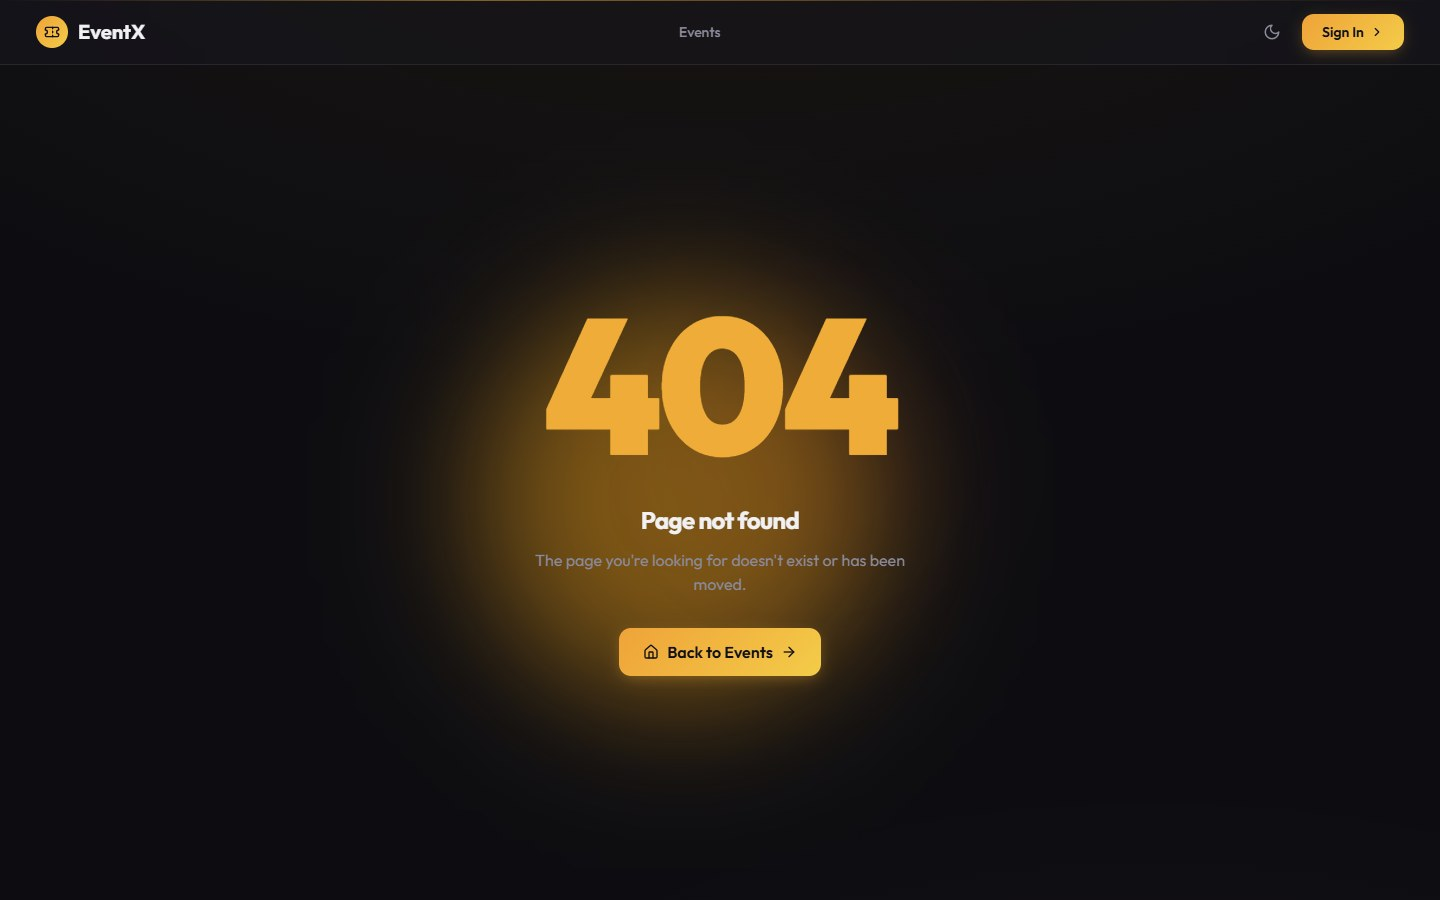
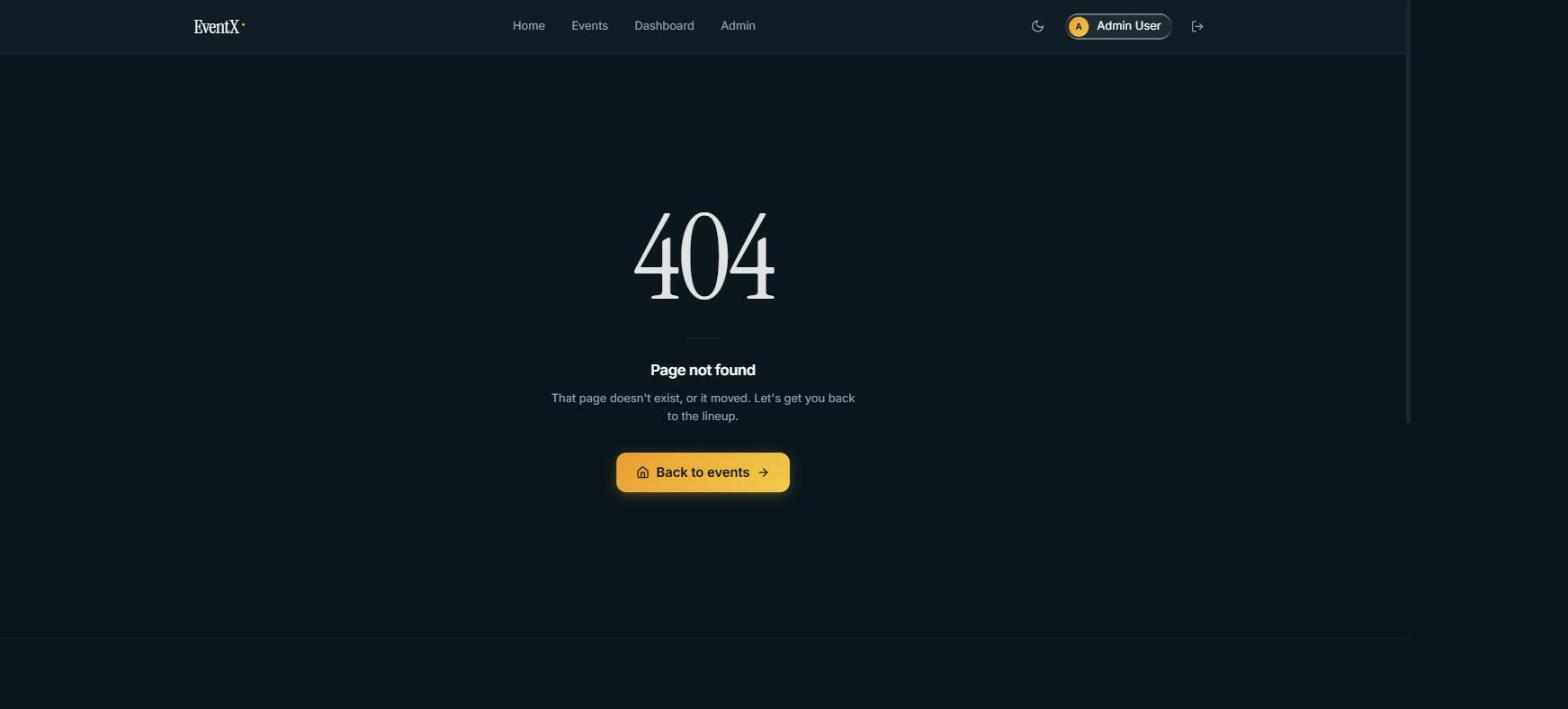
Update README: redesign screenshots, DB schema, API endpoints

diff --git a/README.md b/README.md
@@ -21,7 +21,7 @@ EventX is an event ticket booking platform built around one guarantee: a seat ca
 
 | | |
 |---|---|
-| **Browse events** ![Homepage](docs/screenshots/01-homepage.jpg) | **Event detail** ![Event detail](docs/screenshots/02-event-detail.jpg) |
+| **Browse events** ![Events](docs/screenshots/01-events.jpg) | **Event detail** ![Event detail](docs/screenshots/02-event-detail.jpg) |
 | **Sign in** ![Login](docs/screenshots/03-login.jpg) | **Create account** ![Signup](docs/screenshots/04-signup.jpg) |
 | **Seat picker** ![Seat picker](docs/screenshots/05-booking-seat-picker.jpg) | **Booking confirmed** ![Booking confirmed](docs/screenshots/06-booking-confirmed.jpg) |
 | **User dashboard** ![User dashboard](docs/screenshots/07-user-dashboard.jpg) | **Admin — events** ![Admin dashboard](docs/screenshots/08-admin-dashboard.jpg) |
@@ -33,6 +33,7 @@ EventX is an event ticket booking platform built around one guarantee: a seat ca
 |---|---|
 | Concurrency-safe booking | A Postgres unique constraint rejects an already-taken seat instantly (`409`), even under simultaneous requests across serverless invocations. |
 | Live seat locks | Seat selection broadcasts a short-lived, auto-expiring hold; every connected client picks it up on its next poll. |
+| Event discovery | Cinematic single-viewport home leads into a dedicated `/events` page — search plus horizontal category filter chips, results updating in place. |
 | Booking flow | Seat picker, ticket limits, live price calculation, optimistic UI with server reconciliation. |
 | PDF e-tickets | Boarding-pass-style PDF with a scannable QR code, seat numbers, and attendee details. |
 | Authentication & roles | bcrypt-hashed passwords, signed httpOnly session cookies, protected routes, separate user and admin dashboards. |
@@ -79,6 +80,62 @@ sequenceDiagram
 
 The guarantee holds under an abandoned hold or a mid-flow failure too: Redis TTLs expire independently of whatever created them, and every multi-seat booking commits as one all-or-nothing transaction — there's no ordering for two holders to deadlock over. This was verified directly against a real local Postgres and Redis instance, not just reasoned about: two connections racing for the same seat resolve to exactly one winner, with no partial booking ever observable.
 
+## Database Schema
+
+Three tables in Postgres (Neon), created idempotently on cold start by `api/_lib/db.js`. Seat holds live in Redis, not here — they're transient by design (see above).
+
+```mermaid
+erDiagram
+    users {
+        text id PK
+        text name
+        text email UK
+        text password_hash
+        text role "user | admin"
+        timestamptz created_at
+    }
+    bookings {
+        text id PK
+        text event_id "FK to static event catalog, not a DB table"
+        text user_id
+        text user_name
+        text user_email
+        text ticket_id UK
+        integer ticket_count
+        text_array seat_numbers
+        text status "default confirmed"
+        timestamptz booked_at
+    }
+    booked_seats {
+        text event_id PK
+        text seat_id PK
+        text booking_id FK
+    }
+    users ||--o{ bookings : "books"
+    bookings ||--|{ booked_seats : "claims"
+```
+
+- **`users`** — real accounts. `email` is `UNIQUE`, so duplicate registration is rejected by Postgres itself. `password_hash` is bcrypt output, never sent to the client (`db.js` strips it outside the login path).
+- **`bookings`** — one row per checkout. `ticket_id` is the human-facing ID printed on the PDF ticket and shown in both dashboards; `seat_numbers` is a Postgres `TEXT[]`, so a multi-seat booking is still one row.
+- **`booked_seats`** — the concurrency guarantee itself. Composite primary key `(event_id, seat_id)` means a second `INSERT` for an already-claimed seat is rejected with a `23505 unique_violation` before it can ever reach `bookings`; `ON DELETE CASCADE` from `bookings` keeps the two tables consistent if a booking is ever removed.
+- Events themselves aren't a database table — the catalog is static seed data shipped with the client (see `src/data/`), so `event_id` is a plain string with no FK enforcement, not a schema oversight.
+
+## API Endpoints
+
+All routes are Vercel serverless functions under `api/`, deployed as individual functions. Auth endpoints set/clear an `HttpOnly` session cookie; everything else is stateless.
+
+| Method | Path | Auth | Description |
+|---|---|---|---|
+| `POST` | `/api/auth/register` | — | Create an account (bcrypt-hash the password, reject duplicate email with `409`), sign in immediately. |
+| `POST` | `/api/auth/login` | — | Verify credentials, set the session cookie. Same generic `401` for a wrong password or an unknown email. |
+| `POST` | `/api/auth/logout` | — | Clear the session cookie. |
+| `GET` | `/api/auth/me` | cookie | Current session's user, or `{ user: null }` — never errors just for being logged out. |
+| `GET` | `/api/state` | — | Polled every ~2s by the client: all bookings plus all active Redis seat locks, in one payload, so the UI can reconcile without a persistent connection. |
+| `POST` | `/api/lock` | — | Acquire a short-lived hold (`SET NX PX 120000`, 2 min TTL) on the seats a user has selected. |
+| `POST` | `/api/unlock` | — | Release a user's held seats early (e.g. they navigate away or clear their selection). |
+| `POST` | `/api/book` | — | Commit a booking inside one Postgres transaction. `409` with `{ seats, bookedBy }` on a real seat collision; on success, also clears that user's Redis locks server-side. |
+| `GET` | `/api/health` | — | Liveness probe — `{ ok: true }`, no dependency checks. |
+
 ## Authentication
 
 Real accounts, backed by a `users` table in the same Postgres database.
@@ -93,7 +150,7 @@ Real accounts, backed by a `users` table in the same Postgres database.
 | Layer | Technologies |
 |---|---|
 | Frontend | React 18, TypeScript, Vite, React Router |
-| UI | Tailwind CSS, Framer Motion, self-hosted Outfit / JetBrains Mono |
+| UI | Tailwind CSS, Framer Motion, self-hosted Instrument Serif (display) / Inter (body) |
 | Backend | Vercel Serverless Functions, Node.js |
 | Data | Postgres via [Neon](https://neon.tech) — bookings, users, the double-booking constraint · Redis via [Upstash](https://upstash.com) — seat locks |
 | Auth | `bcryptjs`, `jose` (JWT sessions) |
